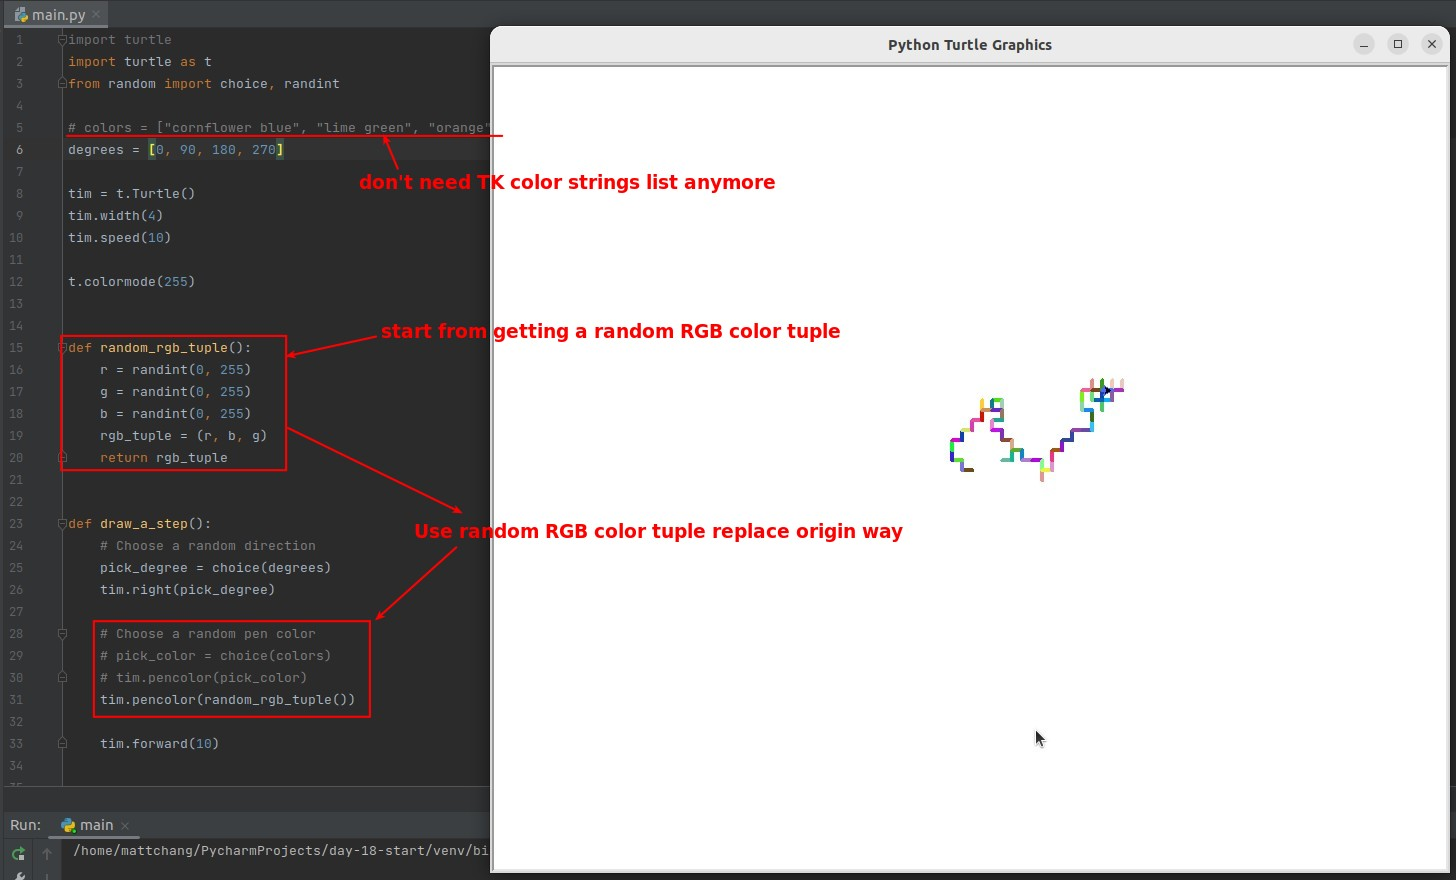
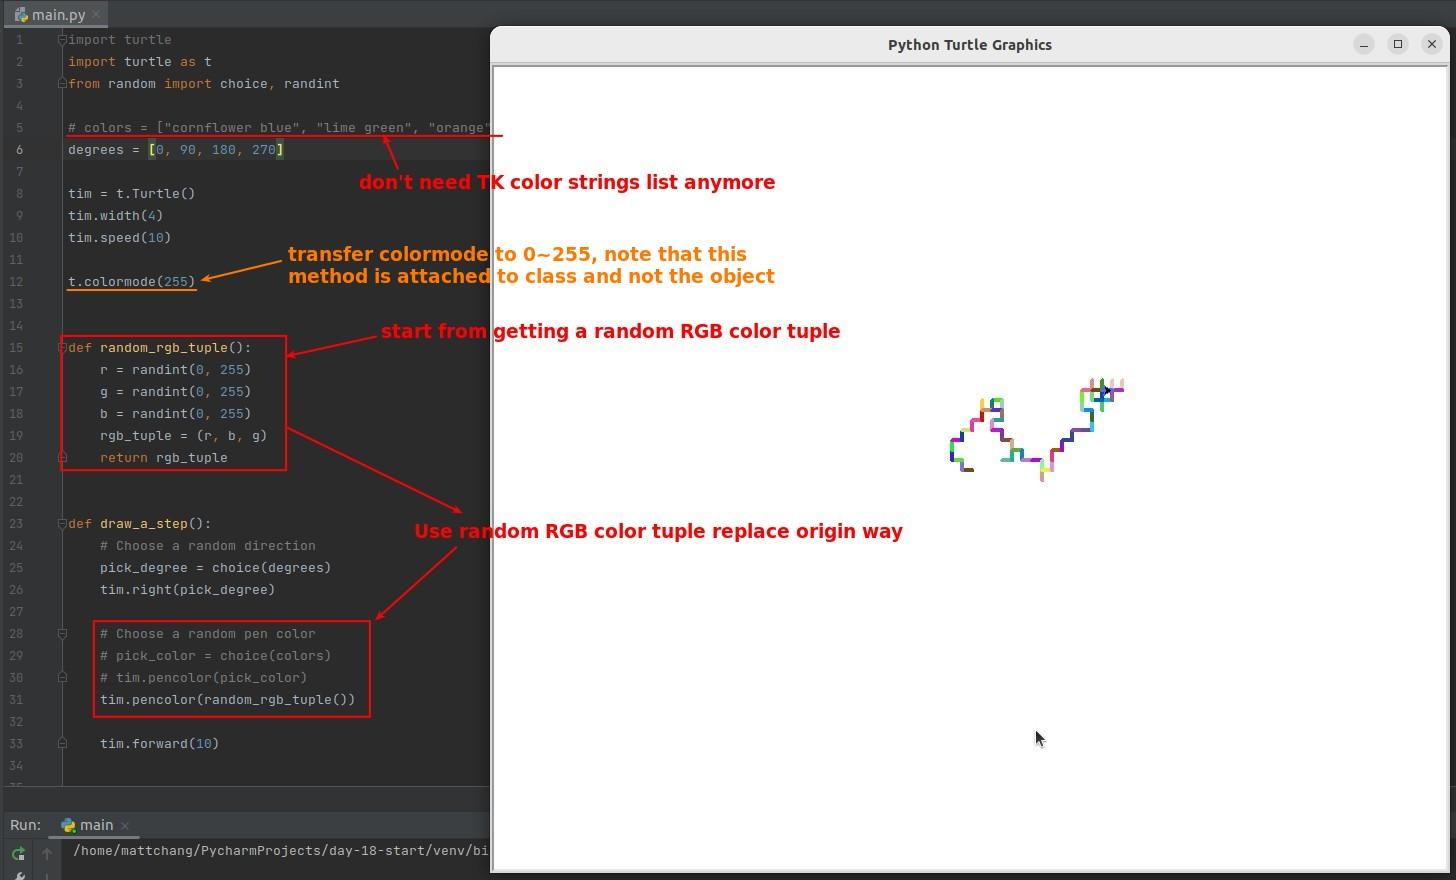
qq

Changed region(s): [[0.1854, 0.2761, 0.5254, 0.3375], [0.0618, 0.3068, 0.1545, 0.3375]]

diff --git a/day18/171-random-rgb/memo.md b/day18/171-random-rgb/memo.md
@@ -21,3 +21,5 @@
 ### _My solution_
 
 ![Alt my solution](pic/07.jpg)
+
+- Some methods are more suitable for attaching to a class, such as the colormode() above.
